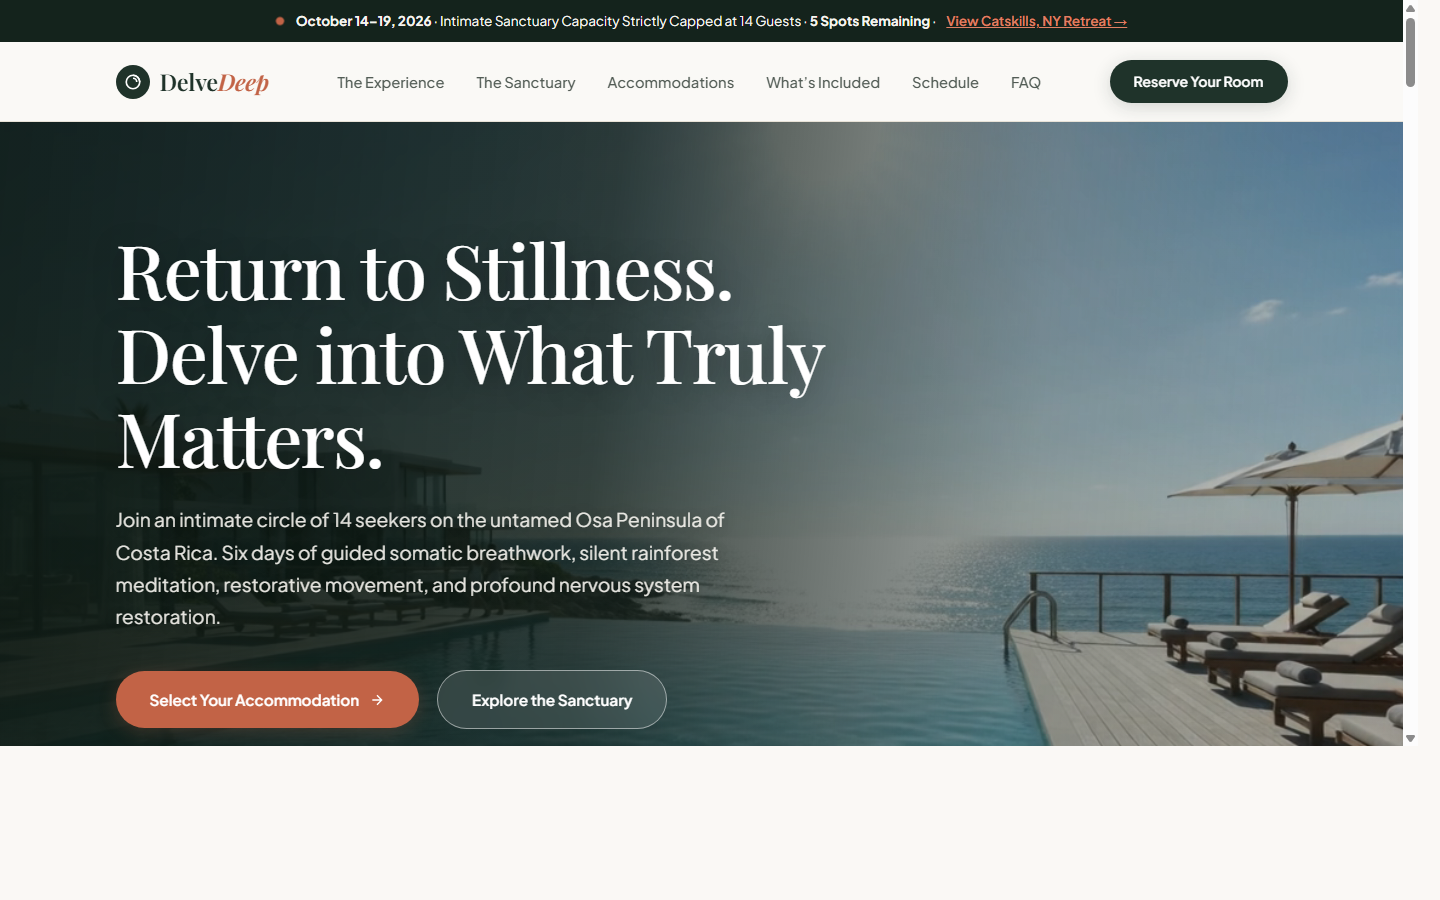
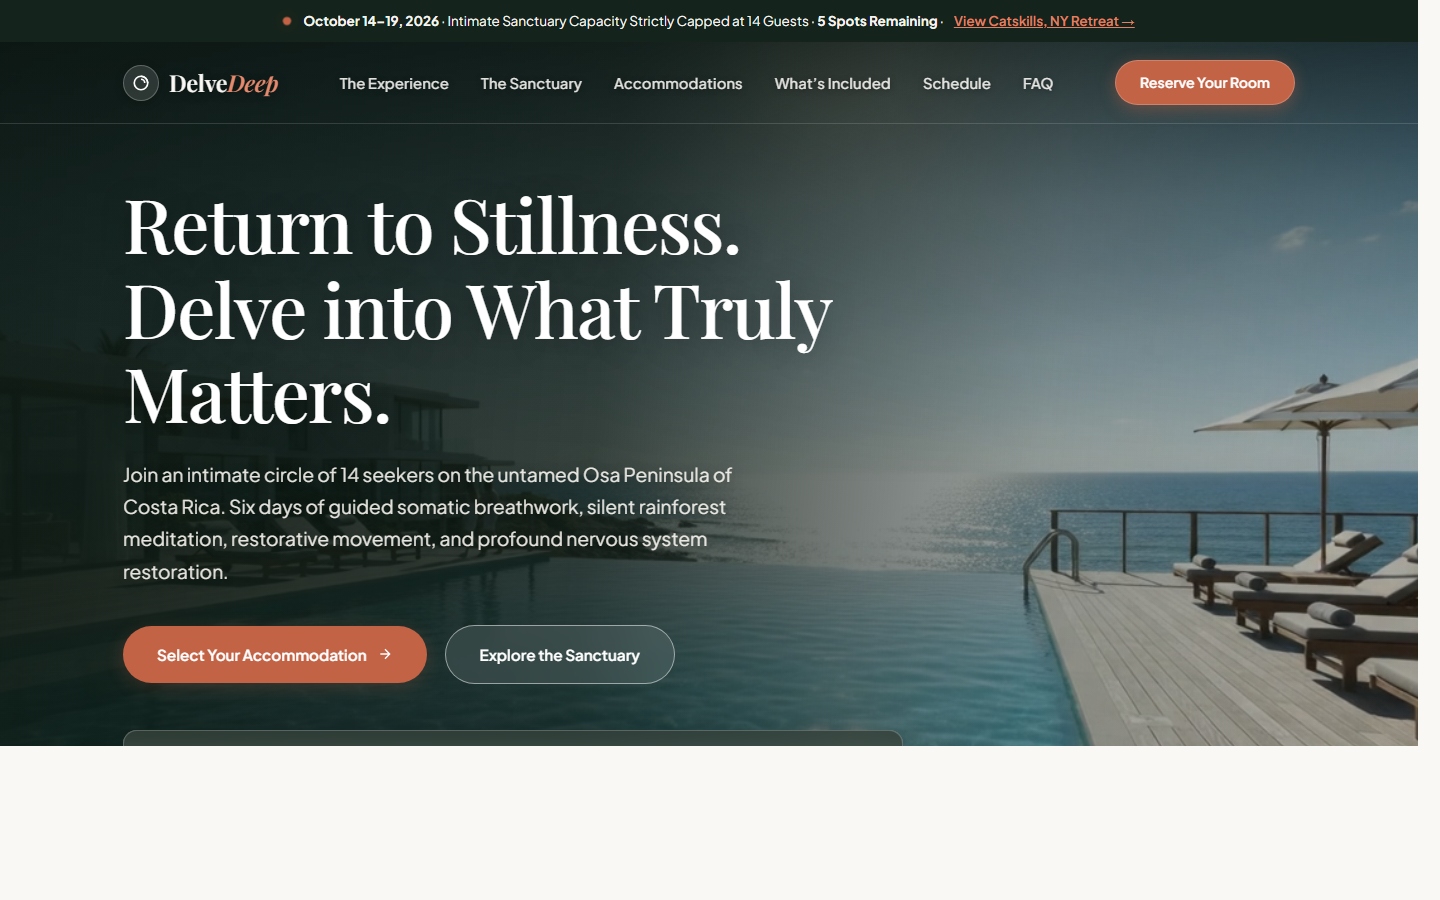
fix(delvedeep): make navigation bar transparent over retreat hero and update portfolio thumbnail

diff --git a/delvedeep.html b/delvedeep.html
@@ -197,11 +197,21 @@
       position: sticky;
       top: 0;
       z-index: 50;
-      background: rgba(250,248,245,0.92);
-      backdrop-filter: blur(14px);
-      border-bottom: 1px solid var(--surface-border);
+      background: transparent;
+      backdrop-filter: none;
+      -webkit-backdrop-filter: none;
+      border-bottom: 1px solid rgba(255, 255, 255, 0.14);
+      margin-bottom: -83px;
       padding: 18px 0;
-      transition: var(--transition);
+      transition: background 0.35s ease, backdrop-filter 0.35s ease, border-color 0.35s ease, box-shadow 0.35s ease, padding 0.35s ease;
+    }
+    .nav.scrolled {
+      background: rgba(12, 22, 17, 0.94);
+      backdrop-filter: blur(18px);
+      -webkit-backdrop-filter: blur(18px);
+      border-bottom: 1px solid rgba(255, 255, 255, 0.12);
+      box-shadow: 0 10px 32px rgba(0, 0, 0, 0.35);
+      padding: 14px 0;
     }
     .nav-inner {
       display: flex;
@@ -213,25 +223,35 @@
       align-items: center;
       gap: 10px;
       text-decoration: none;
-      color: var(--forest);
+      color: #FAF8F5;
+      transition: opacity 0.2s;
+    }
+    .brand-logo:hover {
+      opacity: 0.9;
     }
     .brand-symbol {
-      width: 34px;
-      height: 34px;
-      background: var(--forest);
+      width: 36px;
+      height: 36px;
+      background: rgba(255, 255, 255, 0.12);
+      border: 1px solid rgba(255, 255, 255, 0.25);
       color: #FFFFFF;
       border-radius: 50%;
       display: grid;
       place-items: center;
+      backdrop-filter: blur(8px);
+      -webkit-backdrop-filter: blur(8px);
+      box-shadow: 0 2px 10px rgba(0, 0, 0, 0.2);
     }
     .brand-text {
       font-family: var(--serif);
       font-size: 1.45rem;
       font-weight: 600;
       letter-spacing: -0.01em;
+      color: #FAF8F5;
+      text-shadow: 0 2px 10px rgba(0, 0, 0, 0.4);
     }
     .brand-text span {
-      color: var(--terracotta);
+      color: #E68A6E;
       font-style: italic;
     }
     .nav-links {
@@ -242,26 +262,39 @@
     }
     .nav-links a {
       text-decoration: none;
-      color: var(--text-muted);
+      color: rgba(250, 248, 245, 0.9);
       font-size: 0.92rem;
       font-weight: 500;
-      transition: color 0.2s;
+      letter-spacing: 0.01em;
+      text-shadow: 0 1px 6px rgba(0, 0, 0, 0.45);
+      transition: color 0.2s, text-shadow 0.2s;
     }
     .nav-links a:hover {
-      color: var(--forest);
+      color: #FFFFFF;
+      text-shadow: 0 0 14px rgba(255, 255, 255, 0.6);
     }
     .nav-cta {
       padding: 10px 24px;
       font-size: 0.88rem;
+      background: var(--terracotta);
+      color: #FFFFFF !important;
+      border: 1px solid rgba(255, 255, 255, 0.2);
+      box-shadow: 0 4px 16px rgba(194, 99, 70, 0.4);
+      transition: transform 0.2s, box-shadow 0.2s, background-color 0.2s;
+    }
+    .nav-cta:hover {
+      background: #B5583B;
+      transform: translateY(-1px);
+      box-shadow: 0 6px 20px rgba(194, 99, 70, 0.5);
     }
 
     /* ================= FULL CINEMATIC HERO SECTION ================= */
     .hero {
       position: relative;
-      min-height: 94vh;
+      min-height: 100vh;
       display: flex;
       align-items: center;
-      padding: clamp(90px, 14vh, 150px) 0 clamp(70px, 10vh, 110px);
+      padding: clamp(140px, 18vh, 180px) 0 clamp(70px, 10vh, 110px);
       overflow: hidden;
       color: #FAF8F5;
       background: var(--forest-dark);
@@ -290,6 +323,13 @@
       position: absolute;
       inset: 0;
       background: linear-gradient(
+        180deg,
+        rgba(10, 20, 15, 0.72) 0%,
+        rgba(15, 27, 21, 0.35) 18%,
+        rgba(15, 27, 21, 0.1) 35%,
+        rgba(15, 27, 21, 0) 50%
+      ),
+      linear-gradient(
         95deg,
         rgba(15, 27, 21, 0.93) 0%,
         rgba(15, 27, 21, 0.82) 42%,
@@ -1340,7 +1380,7 @@
   </div>
 
   <!-- ================= STICKY HEADER ================= -->
-  <header class="nav">
+  <header class="nav" id="siteNav">
     <div class="container nav-inner">
       <a href="#top" class="brand-logo" aria-label="DelveDeep Sanctuary Home">
         <div class="brand-symbol">
@@ -2285,6 +2325,20 @@
         closeCinemaModal();
       }
     });
+
+    // Navbar Sticky Scroll State
+    const siteNav = document.getElementById('siteNav');
+    if (siteNav) {
+      const handleNavScroll = () => {
+        if (window.scrollY > 40) {
+          siteNav.classList.add('scrolled');
+        } else {
+          siteNav.classList.remove('scrolled');
+        }
+      };
+      window.addEventListener('scroll', handleNavScroll, { passive: true });
+      handleNavScroll();
+    }
 
     // Initialize
     updatePriceCalculations();
